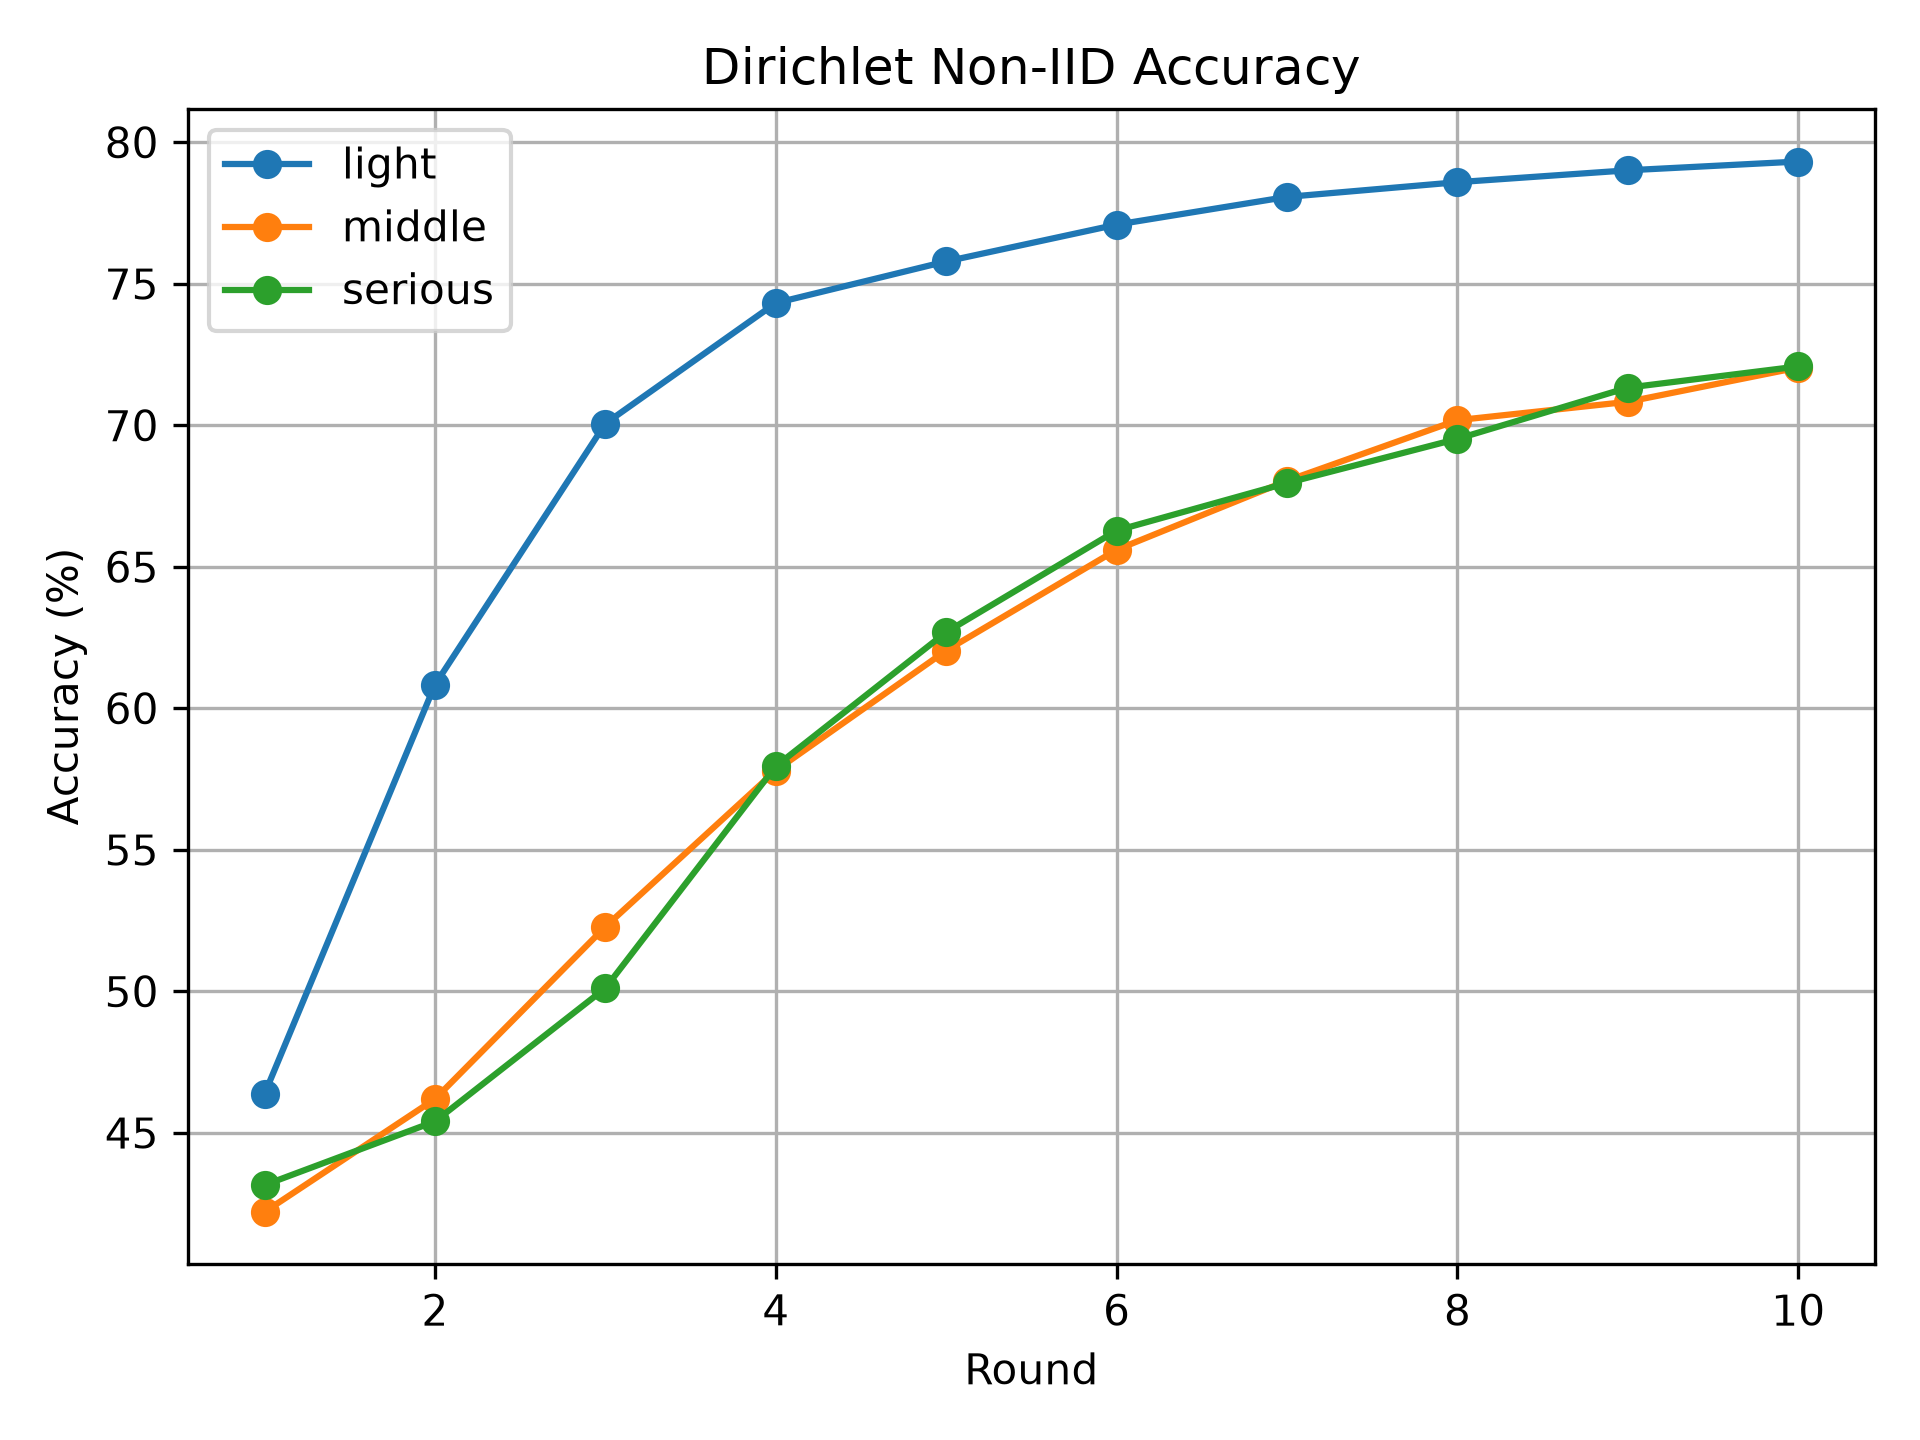
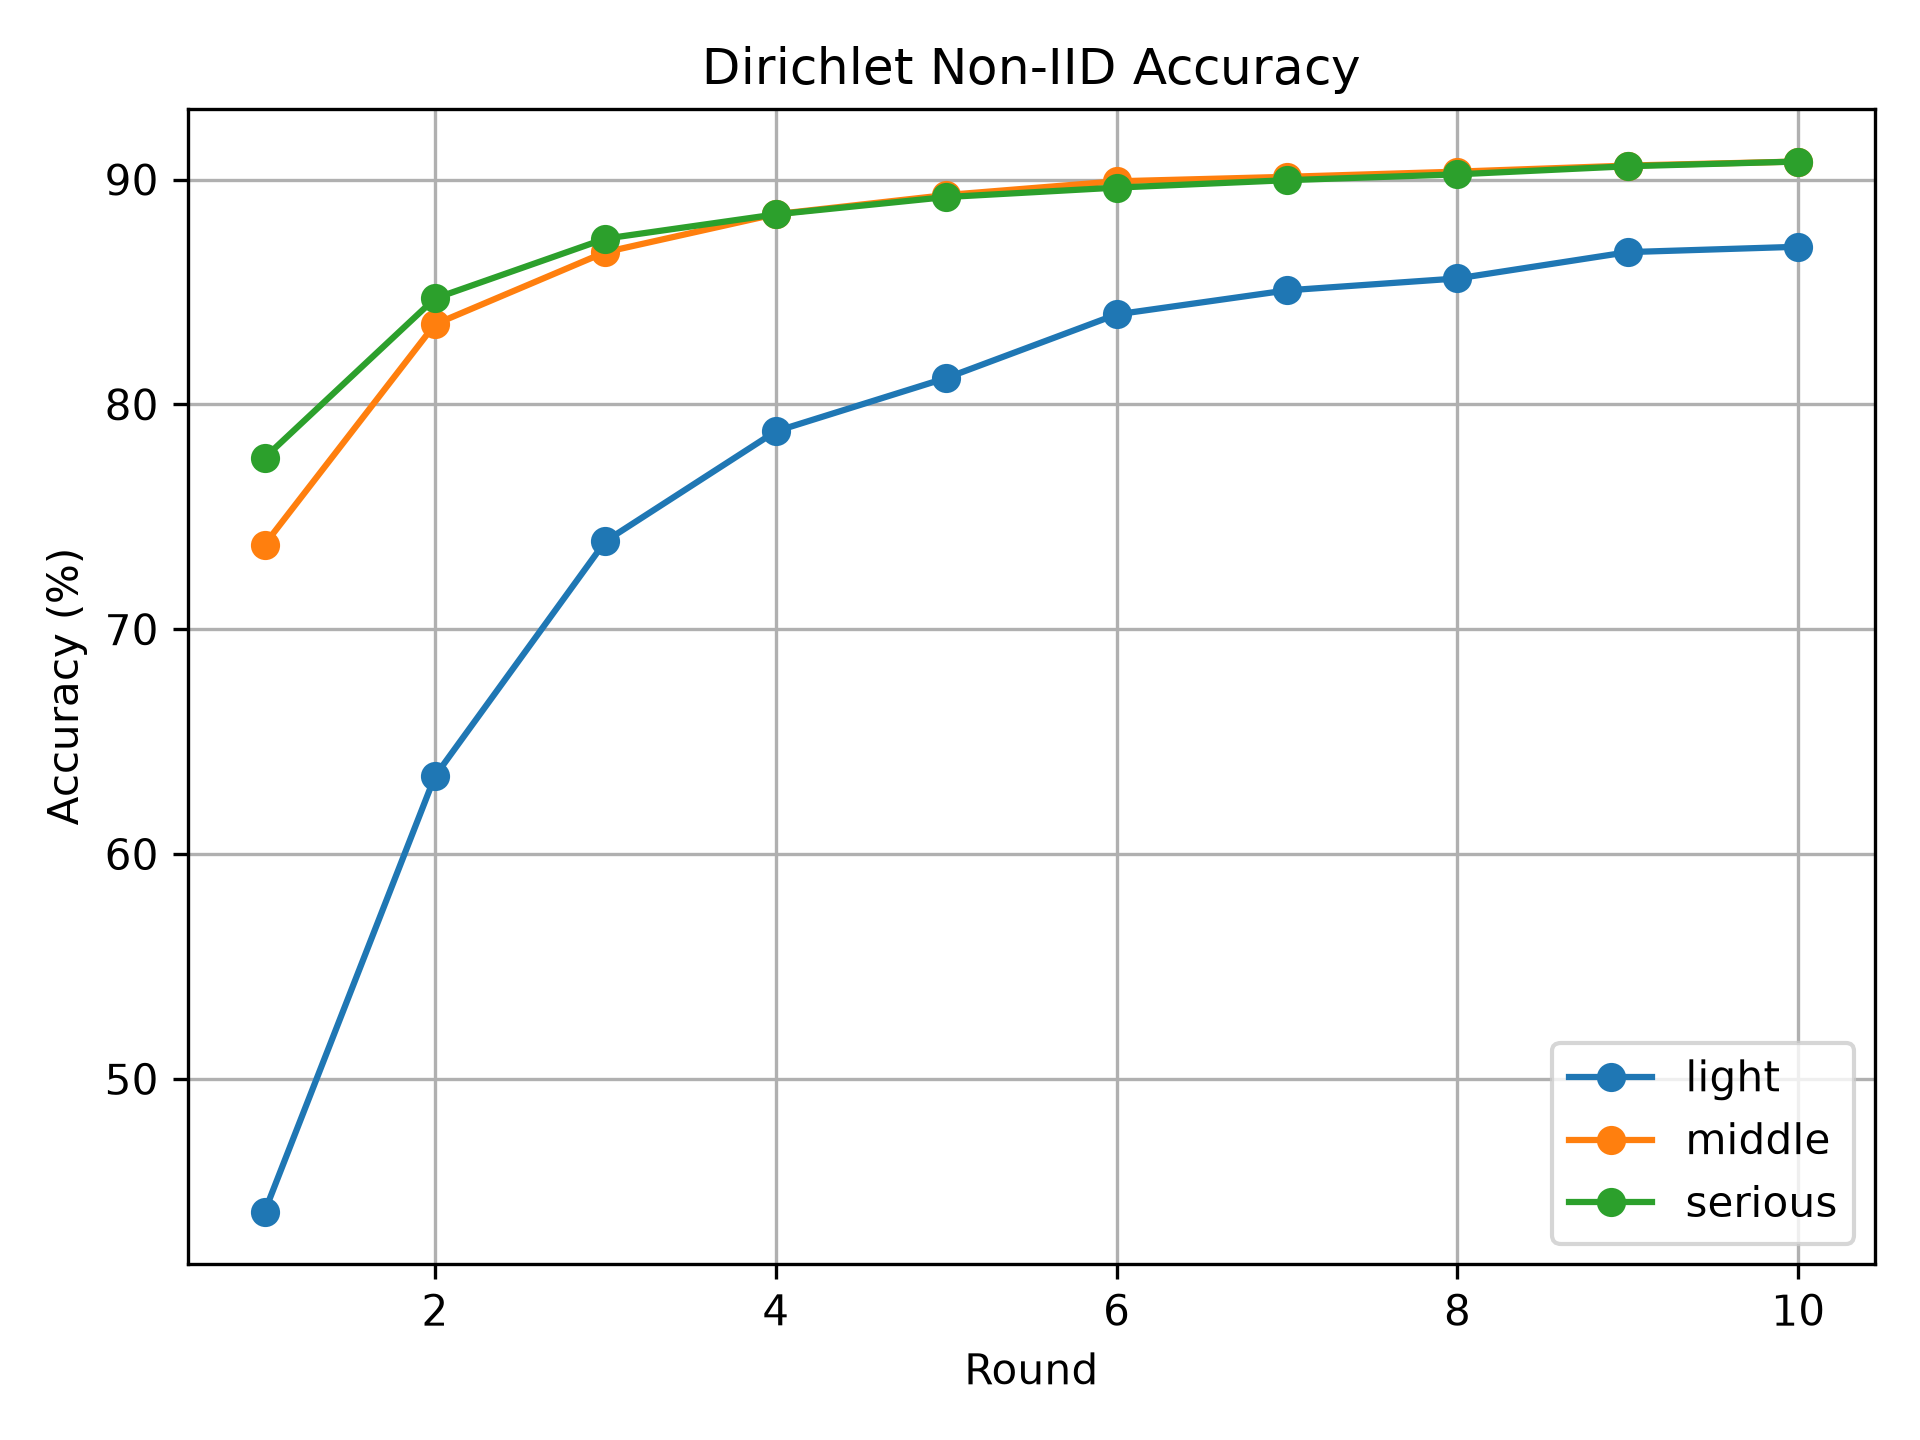
Dirichlet Non-IID Accuracy

diff --git a/client.py b/client.py
@@ -1,15 +1,30 @@
 import sys
-
 import flwr as fl
 import torch
 import torch.nn as nn
 import torch.optim as optim
-from torch.utils.data import DataLoader
+import numpy as np
+
+from torch.utils.data import DataLoader, Subset
 from torchvision import datasets, transforms
 
 
 # =========================
-# 1. Model
+# 設定
+# =========================
+
+NUM_CLIENTS = 5
+
+# alpha 越大 → 越接近 IID
+# alpha 越小 → Non-IID 越嚴重
+ALPHA = 10
+
+# 固定亂數，讓實驗可以重現
+SEED = 42
+
+
+# =========================
+# Model
 # =========================
 
 class Net(nn.Module):
@@ -28,10 +43,73 @@ class Net(nn.Module):
 
 
 # =========================
-# 2. Dataset
+# 建立 Dirichlet Partition
+# =========================
+
+def create_dirichlet_partition(dataset, num_clients, alpha):
+    """
+    使用 Dirichlet distribution
+    將 MNIST 分配給不同 Client。
+
+    每一筆資料只會屬於一個 Client。
+    """
+
+    np.random.seed(SEED)
+
+    targets = np.array(dataset.targets)
+
+    client_indices = [[] for _ in range(num_clients)]
+
+    # MNIST 有 10 個類別
+    num_classes = 10
+
+    for class_id in range(num_classes):
+
+        # 找出這個 class 的所有資料
+        class_indices = np.where(targets == class_id)[0]
+
+        # 打亂
+        np.random.shuffle(class_indices)
+
+        # Dirichlet 分配比例
+        proportions = np.random.dirichlet(
+            np.repeat(alpha, num_clients)
+        )
+
+        # 根據比例計算每個 Client 要拿多少資料
+        proportions = (
+            np.cumsum(proportions) * len(class_indices)
+        ).astype(int)
+
+        proportions = np.diff(
+            np.concatenate(([0], proportions))
+        )
+
+        start = 0
+
+        for client_id, count in enumerate(proportions):
+
+            end = start + count
+
+            client_indices[client_id].extend(
+                class_indices[start:end]
+            )
+
+            start = end
+
+    # 最後再打亂每個 Client 的資料
+    for client_id in range(num_clients):
+        np.random.shuffle(client_indices[client_id])
+
+    return client_indices
+
+
+# =========================
+# Load Data
 # =========================
 
 def load_data():
+
     transform = transforms.ToTensor()
 
     trainset = datasets.MNIST(
@@ -52,12 +130,13 @@ def load_data():
 
 
 # =========================
-# 3. Train
+# Train
 # =========================
 
 def train(model, trainloader):
 
     criterion = nn.CrossEntropyLoss()
+
     optimizer = optim.SGD(
         model.parameters(),
         lr=0.01
@@ -69,9 +148,9 @@ def train(model, trainloader):
 
         optimizer.zero_grad()
 
-        output = model(images)
+        outputs = model(images)
 
-        loss = criterion(output, labels)
+        loss = criterion(outputs, labels)
 
         loss.backward()
 
@@ -79,7 +158,7 @@ def train(model, trainloader):
 
 
 # =========================
-# 4. Test
+# Test
 # =========================
 
 def test(model, testloader):
@@ -88,69 +167,69 @@ def test(model, testloader):
 
     model.eval()
 
+    loss = 0
     correct = 0
     total = 0
-    loss_total = 0
 
     with torch.no_grad():
 
         for images, labels in testloader:
 
-            output = model(images)
+            outputs = model(images)
 
-            loss = criterion(output, labels)
+            batch_loss = criterion(
+                outputs,
+                labels
+            )
 
-            loss_total += loss.item()
+            loss += batch_loss.item() * len(labels)
 
-            _, predicted = torch.max(output, 1)
+            _, predicted = torch.max(
+                outputs,
+                1
+            )
 
-            total += labels.size(0)
+            total += len(labels)
 
-            correct += (predicted == labels).sum().item()
+            correct += (
+                predicted == labels
+            ).sum().item()
+
+    loss = loss / total
 
     accuracy = correct / total
 
-    return loss_total / len(testloader), accuracy
+    return loss, accuracy
 
 
 # =========================
-# 5. Flower Client
+# Flower Client
 # =========================
 
 class FlowerClient(fl.client.NumPyClient):
 
     def __init__(self, cid):
 
-        self.cid = cid
+        self.cid = int(cid)
+
+        self.model = Net()
 
         trainset, testset = load_data()
 
-        # =========================
-        # Non-IID Data Partition
-        # =========================
-
-        client_labels = {
-            0: [0, 1,2],
-            1: [2, 3,4],
-            2: [4, 5,6],
-            3: [6,7,8],
-            4: [8,9,0]
-        }
-
-        my_labels = client_labels[int(cid)]
-
-        indices = [
-            i
-            for i, label in enumerate(trainset.targets)
-            if int(label) in my_labels
-        ]
-
-        self.trainset = torch.utils.data.Subset(
+        # 建立 Dirichlet partition
+        partitions = create_dirichlet_partition(
             trainset,
-            indices
+            NUM_CLIENTS,
+            ALPHA
         )
 
-        self.testset = testset
+        # 取得這個 Client 的資料
+        client_indices = partitions[self.cid]
+
+        self.trainset = Subset(
+            trainset,
+            client_indices
+        )
 
         self.trainloader = DataLoader(
             self.trainset,
@@ -158,21 +237,35 @@ class FlowerClient(fl.client.NumPyClient):
             shuffle=True
         )
 
+        self.testset = testset
+
         self.testloader = DataLoader(
             self.testset,
-            batch_size=128
+            batch_size=32,
+            shuffle=False
         )
 
-        self.model = Net()
+        print(
+            f"Client {self.cid}: "
+            f"{len(self.trainset)} training samples"
+        )
 
+
+    # =====================
+    # Get Parameters
+    # =====================
 
     def get_parameters(self, config):
 
         return [
-            val.cpu().numpy()
-            for val in self.model.state_dict().values()
+            value.cpu().numpy()
+            for value in self.model.state_dict().values()
         ]
 
+
+    # =====================
+    # Set Parameters
+    # =====================
 
     def set_parameters(self, parameters):
 
@@ -192,11 +285,18 @@ class FlowerClient(fl.client.NumPyClient):
         )
 
 
+    # =====================
+    # Fit
+    # =====================
+
     def fit(self, parameters, config):
 
         self.set_parameters(parameters)
 
-        train(self.model, self.trainloader)
+        train(
+            self.model,
+            self.trainloader
+        )
 
         return (
             self.get_parameters(config={}),
@@ -204,6 +304,10 @@ class FlowerClient(fl.client.NumPyClient):
             {}
         )
 
+
+    # =====================
+    # Evaluate
+    # =====================
 
     def evaluate(self, parameters, config):
 
@@ -224,7 +328,7 @@ class FlowerClient(fl.client.NumPyClient):
 
 
 # =========================
-# 6. Start Client
+# Start Client
 # =========================
 
 if __name__ == "__main__":
